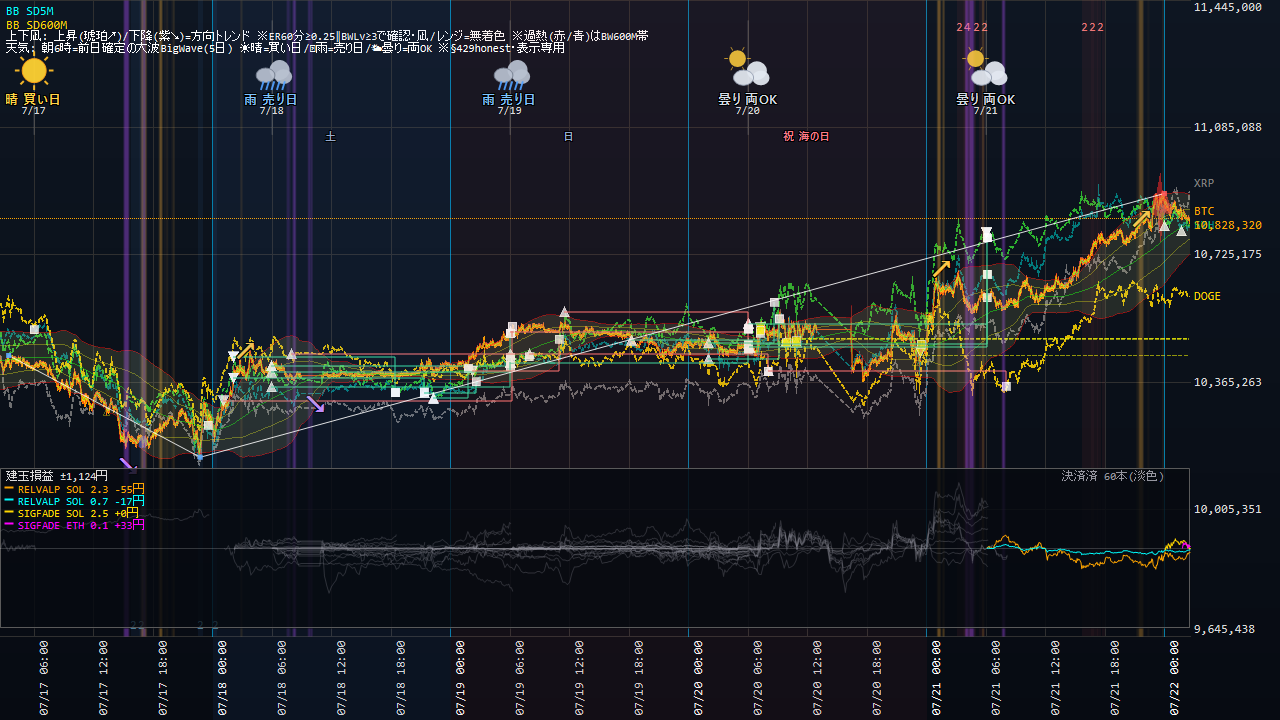
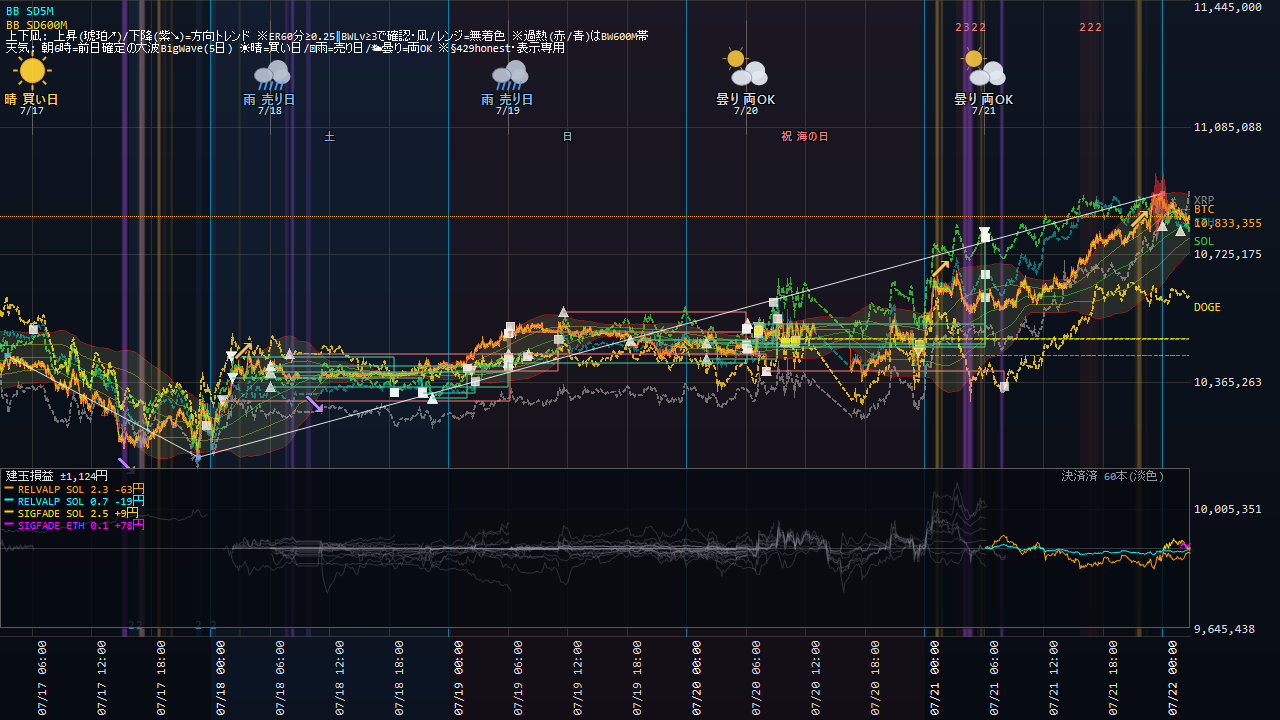
Coin100S 運用状況更新 07-22 02:47

diff --git a/coin100s-795hc4jfv8/index.html b/coin100s-795hc4jfv8/index.html
@@ -14,16 +14,16 @@ a{color:#60a5fa;text-decoration:none} a:hover{text-decoration:underline}
 .meta{color:#94a3b8;font-size:13px}</style>
 <script>setTimeout(function(){location.replace(location.pathname+"?t="+Date.now());},300000);</script></head><body>
 <h1>Coin100S ダッシュボード</h1>
-<p class="meta">スナップショット: 2026-07-22 02:41:07(自動リロード・最新化)</p>
+<p class="meta">スナップショット: 2026-07-22 02:47:07(自動リロード・最新化)</p>
 <div class="cards">
 <div class="card">建玉数<div class="v">4</div></div>
 <div class="card">本日損益<div class="v pos">+1,569円</div></div>
-<div class="card">評価損益<div class="v pos">+7円</div></div>
+<div class="card">評価損益<div class="v neg">-113円</div></div>
 </div>
 <h2>現在の建玉</h2>
-<table><tr><th>銘柄</th><th>側</th><th>数量</th><th>建値</th><th>含損益</th><th>レッグ</th></tr><tr><td>ETH_JPY</td><td>BUY</td><td>0.1</td><td>@313,170</td><td>+62円</td><td>SIGFADE_ETH</td></tr><tr><td>SOL_JPY</td><td>BUY</td><td>2.5</td><td>@12,687</td><td>-3円</td><td>SIGFADE_SOL</td></tr><tr><td>SOL_JPY</td><td>SELL</td><td>0.7</td><td>@12,663</td><td>-17円</td><td>RELVALP_SL700</td></tr><tr><td>SOL_JPY</td><td>SELL</td><td>2.3</td><td>@12,663</td><td>-53円</td><td>RELVALP_SELL</td></tr></table>
+<table><tr><th>銘柄</th><th>側</th><th>数量</th><th>建値</th><th>含損益</th><th>レッグ</th></tr><tr><td>ETH_JPY</td><td>BUY</td><td>0.1</td><td>@313,170</td><td>-53円</td><td>SIGFADE_ETH</td></tr><tr><td>SOL_JPY</td><td>BUY</td><td>2.5</td><td>@12,687</td><td>-130円</td><td>SIGFADE_SOL</td></tr><tr><td>SOL_JPY</td><td>SELL</td><td>0.7</td><td>@12,663</td><td>+19円</td><td>RELVALP_SL700</td></tr><tr><td>SOL_JPY</td><td>SELL</td><td>2.3</td><td>@12,663</td><td>+64円</td><td>RELVALP_SELL</td></tr></table>
 <p><a href="status.html"><b>▶ 運用状況の詳細(チャート・本日の取引・レジーム)</b></a></p>
 <h2>日報一覧</h2>
 <table><tr><th>取引日</th><th>実現損益</th><th>総括</th></tr><tr><td><a href='reports/20260720_Coin100S日報.html'>2026-07-20</a></td><td class="pos">+0円</td><td class='meta'>実取引: 新規8件/決済21件、実現損益 +0円。シグナル却下8件（最多: BW10M3_5M／トレンド方向ゲート(N分傾き上と不一致=逆張り方向のfade禁止)）。⚠警告/エラー 13件（要確認）。</td></tr><tr><td><a href='reports/20260719_Coin100S日報.html'>2026-07-19</a></td><td class="pos">+0円</td><td class='meta'>実取引: 新規10件/決済7件、実現損益 +0円。⚠警告/エラー 3件（要確認）。</td></tr><tr><td><a href='reports/20260718_Coin100S日報.html'>2026-07-18</a></td><td class="pos">+0円</td><td class='meta'>実取引: 新規9件/決済8件、実現損益 +0円。警告/孤児/エラーなし＝健全。</td></tr><tr><td><a href='reports/20260717_Coin100S日報.html'>2026-07-17</a></td><td class="pos">+0円</td><td class='meta'>実取引: 新規3件/決済2件、実現損益 +0円。シグナル却下1件（最多: BW10M3_5M／トレンド方向ゲート(N分傾き下と不一致=逆張り方向のfade禁止)）。⚠警告/エラー 2件（要確認）。</td></tr><tr><td><a href='reports/20260716_Coin100S日報.html'>2026-07-16</a></td><td class="pos">+0円</td><td class='meta'>実取引: 新規0件/決済5件、実現損益 +0円。⚠警告/エラー 7件（要確認）。</td></tr><tr><td><a href='reports/20260715_Coin100S日報.html'>2026-07-15</a></td><td class="pos">+0円</td><td class='meta'>実取引: 新規6件/決済5件、実現損益 +0円。シグナル却下6件（最多: BW10M3_5M／トレンド方向ゲート(N分傾き上と不一致=逆張り方向のfade禁止)）。⚠警告/エラー 7件（要確認）。</td></tr><tr><td><a href='reports/20260714_Coin100S日報.html'>2026-07-14</a></td><td class="pos">+0円</td><td class='meta'>実取引: 新規6件/決済18件、実現損益 +0円。シグナル却下5件（最多: BW10M3_5M／トレンド方向ゲート(N分傾き上と不一致=逆張り方向のfade禁止)）。⚠警告/エラー 9件（要確認）。</td></tr><tr><td><a href='reports/20260713_Coin100S日報.html'>2026-07-13</a></td><td class="pos">+0円</td><td class='meta'>実取引: 新規5件/決済8件、実現損益 +0円。シグナル却下1件（最多: BW10M3_5M／トレンド方向ゲート(N分傾き上と不一致=逆張り方向のfade禁止)）。警告/孤児/エラーなし＝健全。</td></tr><tr><td><a href='reports/20260712_Coin100S日報.html'>2026-07-12</a></td><td class="pos">+0円</td><td class='meta'>実取引: 新規14件/決済6件、実現損益 +0円。シグナル却下5件（最多: BW10M3_5M／トレンド方向ゲート(N分傾き下と不一致=逆張り方向のfade禁止)）。⚠警告/エラー 2件（要確認）。</td></tr><tr><td><a href='reports/20260711_Coin100S日報.html'>2026-07-11</a></td><td class="pos">+0円</td><td class='meta'>実取引: 新規7件/決済6件、実現損益 +0円。⚠警告/エラー 52件（要確認）。</td></tr><tr><td><a href='reports/20260710_Coin100S日報.html'>2026-07-10</a></td><td class="pos">+0円</td><td class='meta'>実取引: 新規7件/決済6件、実現損益 +0円。シグナル却下6件（最多: BW10M3_5M／トレンド方向ゲート(N分傾き上と不一致=逆張り方向のfade禁止)）。警告/孤児/エラーなし＝健全。</td></tr><tr><td><a href='reports/20260709_Coin100S日報.html'>2026-07-09</a></td><td class="pos">+0円</td><td class='meta'>実取引: 新規8件/決済3件、実現損益 +0円。シグナル却下5件（最多: SD120M_5M／トレンド方向ゲート(N分傾き上と不一致=逆張り方向のfade禁止)）。警告/孤児/エラーなし＝健全。</td></tr><tr><td><a href='reports/20260708_Coin100S日報.html'>2026-07-08</a></td><td class="pos">+0円</td><td class='meta'>実取引: 新規2件/決済4件、実現損益 +0円。シグナル却下4件（最多: SD120M_5M／トレンド方向ゲート(N分傾き下と不一致=逆張り方向のfade禁止)）。警告/孤児/エラーなし＝健全。</td></tr><tr><td><a href='reports/20260707_Coin100S日報.html'>2026-07-07</a></td><td class="pos">+0円</td><td class='meta'>実取引: 新規8件/決済6件、実現損益 +0円。シグナル却下4件（最多: SD120M_5M／トレンド方向ゲート(N分傾き上と不一致=逆張り方向のfade禁止)）。⚠警告/エラー 258件（要確認）。</td></tr><tr><td><a href='reports/20260706_Coin100S日報.html'>2026-07-06</a></td><td class="pos">+0円</td><td class='meta'>実取引: 新規9件/決済6件、実現損益 +0円。シグナル却下9件（最多: SD120M_5M／トレンド方向ゲート(N分傾き上と不一致=逆張り方向のfade禁止)）。⚠警告/エラー 150件（要確認）。</td></tr><tr><td><a href='reports/20260705_Coin100S日報.html'>2026-07-05</a></td><td class="pos">+0円</td><td class='meta'>実取引: 新規8件/決済3件、実現損益 +0円。⚠警告/エラー 2件（要確認）。</td></tr><tr><td><a href='reports/20260704_Coin100S日報.html'>2026-07-04</a></td><td class="pos">+0円</td><td class='meta'>実取引: 新規1件/決済2件、実現損益 +0円。⚠警告/エラー 2件（要確認）。</td></tr><tr><td><a href='reports/20260703_Coin100S日報.html'>2026-07-03</a></td><td class="pos">+0円</td><td class='meta'>実取引: 新規5件/決済4件、実現損益 +0円。⚠警告/エラー 15件（要確認）。</td></tr><tr><td><a href='reports/20260702_Coin100S日報.html'>2026-07-02</a></td><td class="pos">+0円</td><td class='meta'>実取引: 新規7件/決済5件、実現損益 +0円。シグナル却下17件（最多: SD120M_5M／トレンド方向ゲート(N分傾き上と不一致=逆張り方向のfade禁止)）。⚠警告/エラー 26件（要確認）。</td></tr><tr><td><a href='reports/20260701_Coin100S日報.html'>2026-07-01</a></td><td class="pos">+0円</td><td class='meta'>実取引: 新規14件/決済8件、実現損益 +0円。シグナル却下14件（最多: SD120M_5M／ボラ軸ゲート(SDN%&amp;gt;N%=高ボラ/荒れレンジ)）。⚠警告/エラー 2件（要確認）。</td></tr><tr><td><a href='reports/20260630_Coin100S日報.html'>2026-06-30</a></td><td class="pos">+0円</td><td class='meta'>実取引: 新規0件/決済1件、実現損益 +0円。シグナル却下29件（最多: 微5M／当日枠N）。警告/孤児/エラーなし＝健全。</td></tr></table>
-<hr><p class="meta">更新: 2026-07-22 02:41:18 / 自動生成: tools/web_publish.py(§580)</p>
+<hr><p class="meta">更新: 2026-07-22 02:47:08 / 自動生成: tools/web_publish.py(§580)</p>
 </body></html>

diff --git a/coin100s-795hc4jfv8/status.html b/coin100s-795hc4jfv8/status.html
@@ -14,22 +14,22 @@ a{color:#60a5fa;text-decoration:none} a:hover{text-decoration:underline}
 .meta{color:#94a3b8;font-size:13px}</style>
 <script>setTimeout(function(){location.replace(location.pathname+"?t="+Date.now());},300000);</script></head><body>
 <h1>Coin100S 運用状況</h1>
-<p class="meta">スナップショット: 2026-07-22 02:40:38 / ページ生成: 2026-07-22 02:41:18(自動リロード・最新化) / <a href="index.html">目次へ</a></p>
+<p class="meta">スナップショット: 2026-07-22 02:46:37 / ページ生成: 2026-07-22 02:47:08(自動リロード・最新化) / <a href="index.html">目次へ</a></p>
 <div class="cards">
 <div class="card">建玉数<div class="v">4</div></div>
 <div class="card">本日損益<div class="v pos">+1,569円</div></div>
-<div class="card">評価損益<div class="v neg">-10円</div></div>
+<div class="card">評価損益<div class="v neg">-8円</div></div>
 </div>
 <h2>資産推移(直近30日)</h2>
-<img src="status_equity.png?t=0241" alt="equity">
+<img src="status_equity.png?t=0247" alt="equity">
 <h2>取引チャート(直近24h)</h2>
-<img src="status_chart.png?t=0241" alt="chart">
+<img src="status_chart.png?t=0247" alt="chart">
 <h2>建玉一覧</h2>
-<table><tr><th>銘柄</th><th>側</th><th>数量</th><th>建値</th><th>含損益</th><th>レッグ</th></tr><tr><td>ETH_JPY</td><td>BUY</td><td>0.1</td><td>@313,170</td><td>+57円</td><td>SIGFADE_ETH</td></tr><tr><td>SOL_JPY</td><td>BUY</td><td>2.5</td><td>@12,687</td><td>-3円</td><td>SIGFADE_SOL</td></tr><tr><td>SOL_JPY</td><td>SELL</td><td>0.7</td><td>@12,663</td><td>-17円</td><td>RELVALP_SL700</td></tr><tr><td>SOL_JPY</td><td>SELL</td><td>2.3</td><td>@12,663</td><td>-53円</td><td>RELVALP_SELL</td></tr></table>
+<table><tr><th>銘柄</th><th>側</th><th>数量</th><th>建値</th><th>含損益</th><th>レッグ</th></tr><tr><td>ETH_JPY</td><td>BUY</td><td>0.1</td><td>@313,170</td><td>+65円</td><td>SIGFADE_ETH</td></tr><tr><td>SOL_JPY</td><td>BUY</td><td>2.5</td><td>@12,687</td><td>-3円</td><td>SIGFADE_SOL</td></tr><tr><td>SOL_JPY</td><td>SELL</td><td>0.7</td><td>@12,663</td><td>-17円</td><td>RELVALP_SL700</td></tr><tr><td>SOL_JPY</td><td>SELL</td><td>2.3</td><td>@12,663</td><td>-53円</td><td>RELVALP_SELL</td></tr></table>
 <h2>実現決済履歴(直近15件・OrderId単位)</h2>
 <table><tr><th>決済時刻</th><th>レッグ</th><th>銘柄</th><th>実現損益</th></tr><tr><td>07-21 08:07</td><td>TENKI5D_REV_DOGE</td><td>DOGE</td><td class="neg">-210円</td></tr><tr><td>07-21 06:11</td><td>TENKI5D_REV_ETH</td><td>ETH</td><td class="pos">+622円</td></tr><tr><td>07-21 06:11</td><td>TENKI5D_REV_ETH</td><td>ETH</td><td class="pos">+124円</td></tr><tr><td>07-21 06:09</td><td>TENKI5D_REV_SOL</td><td>SOL</td><td class="pos">+287円</td></tr><tr><td>07-21 06:09</td><td>TENKI5D_REV_SOL</td><td>SOL</td><td class="pos">+454円</td></tr><tr><td>07-21 06:09</td><td>TENKI5D_REV_BTC</td><td>BTC</td><td class="pos">+649円</td></tr><tr><td>07-21 06:08</td><td>RELVALP_SELL</td><td>LTC</td><td class="neg">-267円</td></tr><tr><td>07-21 06:08</td><td>RELVALP_SL700</td><td>LTC</td><td class="neg">-90円</td></tr><tr><td>07-20 23:29</td><td>BW10M3_5M</td><td>BTC</td><td class="neg">-45円</td></tr><tr><td>07-20 10:58</td><td>BW10M3_5M</td><td>BTC</td><td class="pos">+7円</td></tr><tr><td>07-20 09:56</td><td>BW10M3_5M</td><td>BTC</td><td class="neg">-6円</td></tr><tr><td>07-20 09:11</td><td>SIGFADE_ETH</td><td>ETH</td><td class="pos">+370円</td></tr><tr><td>07-20 08:45</td><td>SIGFADE_SOL</td><td>SOL</td><td class="pos">+380円</td></tr><tr><td>07-20 08:04</td><td>TENKI5D_REV_DOGE</td><td>DOGE</td><td class="neg">-249円</td></tr><tr><td>07-20 07:16</td><td>BW10M3_5M</td><td>BTC</td><td class="pos">+17円</td></tr></table>
 <!-- §799c 「本取引日の実取引(6:00起点)」テーブルは公開ページから削除(ユーザー指示2026-07-15・数量/指値まで晒す情報漏れ)。建玉/実現損益は許可・実発注の生取引明細は非公開 -->
 <h2>現在レジーム(3軸・§570c)</h2>
-<ul><li>アルト対BTC 5日: <b>-121bps</b>(アルト劣後=RELVAL順風)</li><li>BTC ER240m: <b>0.036</b>(閾値0.25→レンジ(fade順風/BWTRD逆風))</li><li>BTC実現ボラ240m: <b>4.77</b> bps/分</li></ul>
+<ul><li>アルト対BTC 5日: <b>-121bps</b>(アルト劣後=RELVAL順風)</li><li>BTC ER240m: <b>0.028</b>(閾値0.25→レンジ(fade順風/BWTRD逆風))</li><li>BTC実現ボラ240m: <b>4.76</b> bps/分</li></ul>
 <hr><p class="meta">自動生成: tools/web_publish.py(§580・読み取り専用)。売買判断はアプリ本体。</p>
 </body></html>
